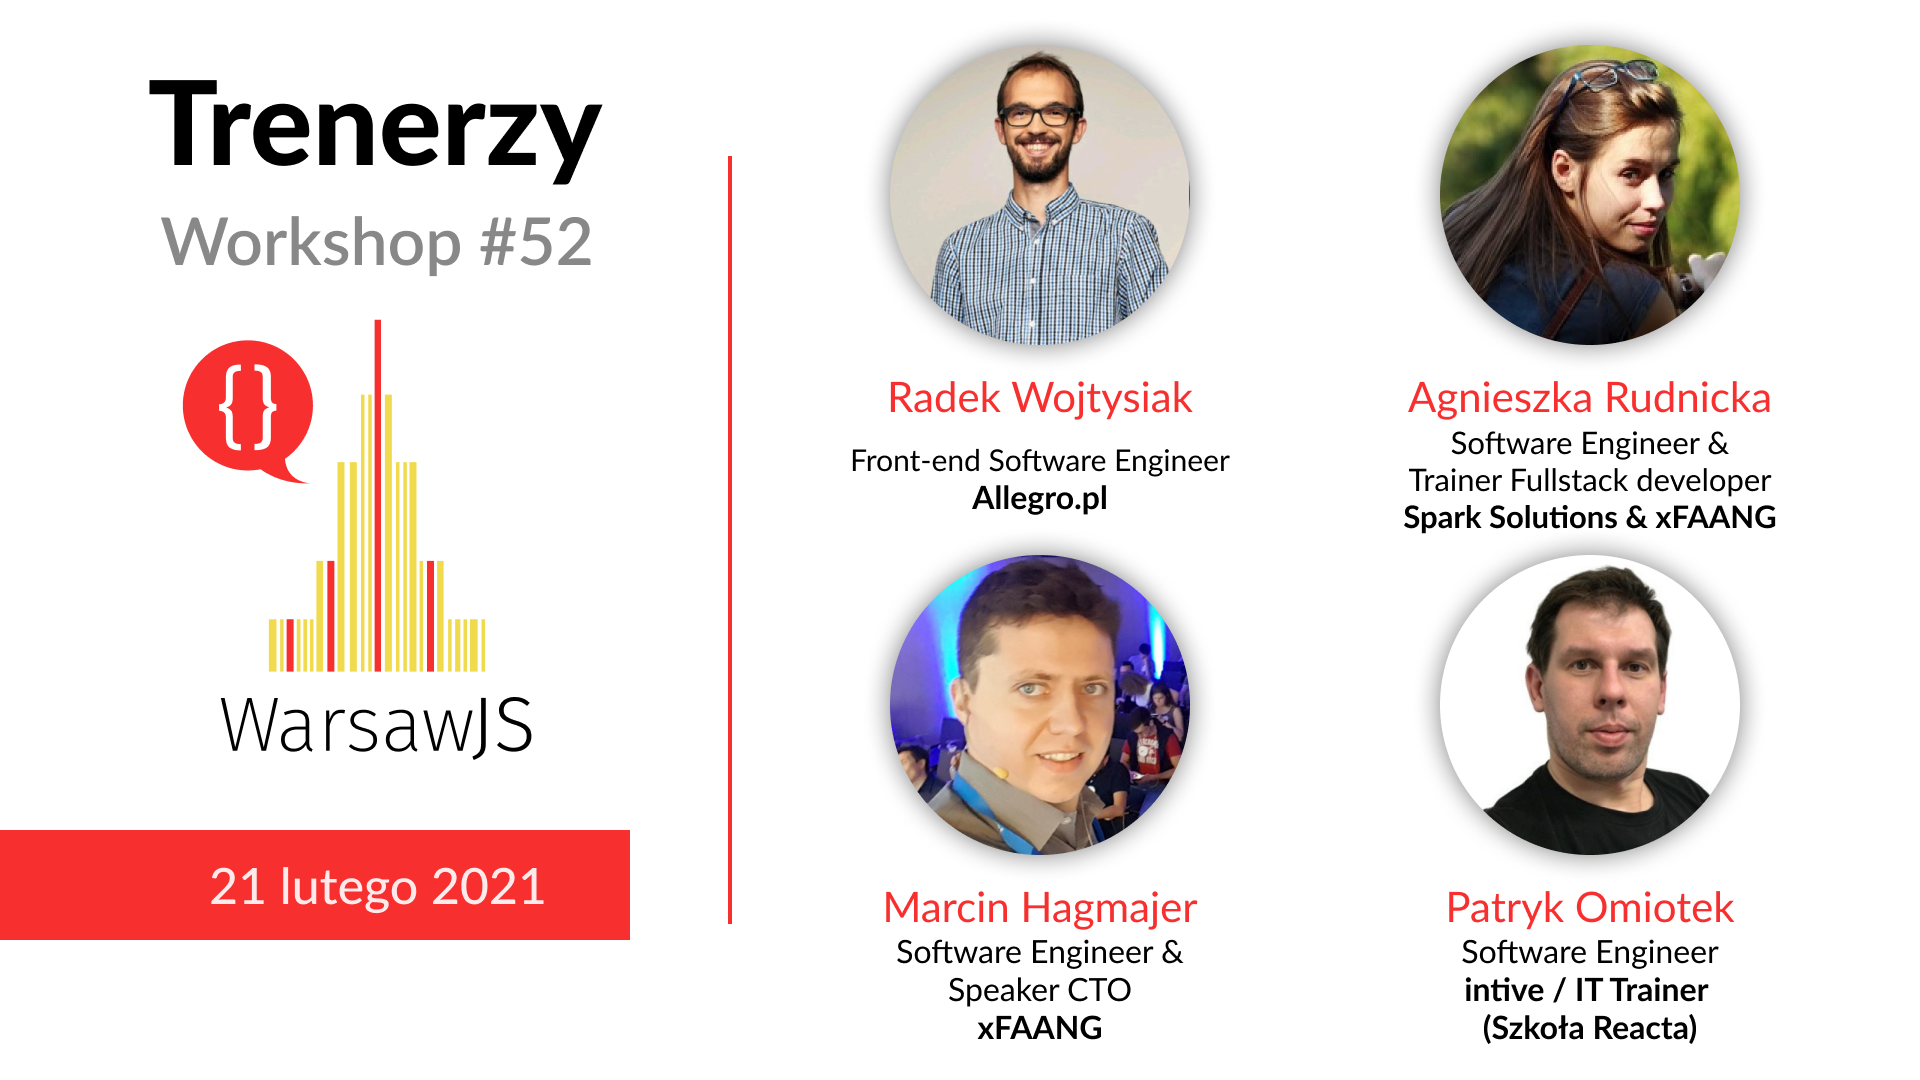
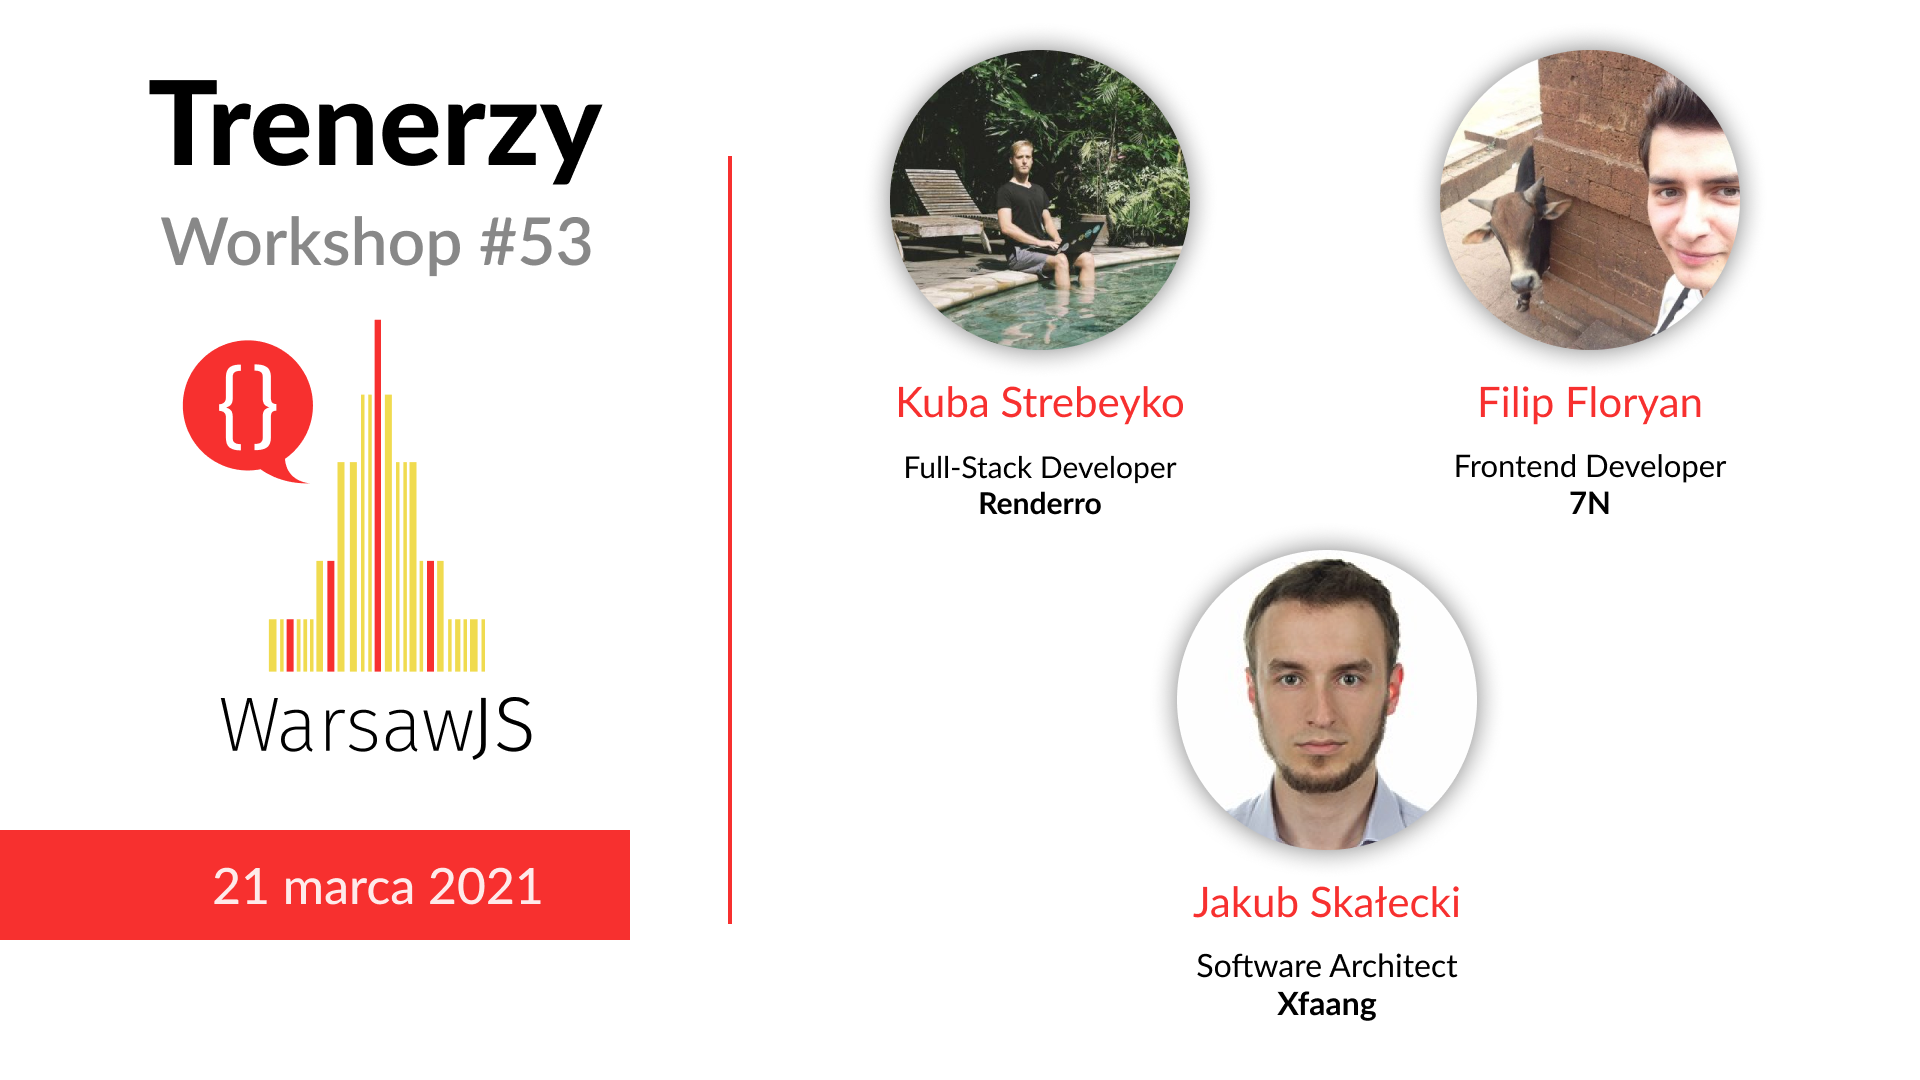
Update WarsawJS slides

diff --git a/index.html b/index.html
@@ -10,8 +10,6 @@
     <link href="images/icons/warsawjs-logo-transparent-32x32.png"
           rel="icon" type="image/png" sizes="32x32"/>
 
-    <!-- <link href="https://fonts.googleapis.com/css?family=Fira+Sans:400,900&amp;subset=latin-ext"
-          rel="stylesheet"/> -->
 
     <link href="https://fonts.googleapis.com/css?family=Roboto:300,700&display=swap" rel="stylesheet">
 
@@ -201,53 +199,6 @@
         </ul>
     </section>
 
-
-<!--     <section class="slide center slide-card-list" style="padding-top: 40px;">
-        <h2 style="font-size: 60px; margin-bottom: 20px;">
-            WarsawJS Meetup <em>Streaming</em>
-        </h2>
-
-        <ul class="list-unstyled items">
-            <li>
-                <img
-                    src="https://s3.eu-central-1.amazonaws.com/www.warsawjs.com/static/images/people/marcin-hagmajer.jpg"
-                    class="avatar"
-                    style="border-radius: 50%; width: 170px; margin-bottom: 25px;"
-                    alt=""/>
-
-                <p>
-                    Marcin Hagmajer
-                </p>
-                    <small>Steaming & Videos</small>
-                <p>
-                    <a href="https://github.com/mhagmajer">
-                        <i class="icon icon-github"></i>
-                        <span>mhagmajer</span>
-                    </a>
-                </p>
-            </li>
-            <li>
-                <img
-                    src="https://s3.eu-central-1.amazonaws.com/www.warsawjs.com/static/images/people/konrad-dziekonski.png"
-                    class="avatar"
-                    alt=""
-                    style="border-radius: 50%; width: 170px; margin-bottom: 25px;"
-                    />
-
-                <p>
-                    Konrad Dziekoński
-                </p>
-                    <small>Steaming Support</small>
-                <p>
-                    <a href="https://github.com/dziekonskik">
-                        <i class="icon icon-github"></i>
-                        <span>dziekonskik</span>
-                    </a>
-                </p>
-            </li>
-        </ul>
-    </section> -->
-
     <section class="slide">
         <h2 style="font-size: 60px;"><em>What is</em> WarsawJS?</h2>
         <p>
@@ -284,7 +235,7 @@
     </section>
 
     <section class="slide">
-        <h1 class="shout">5,668 🙌</h1>
+        <h1 class="shout">5,681 🙌</h1>
 
         <h3 class="shout" style="font-size: 50px; margin-top: 120px;">
             <a href="http://meetup.com/warsawjs">meetup.com/warsawjs</a>
@@ -299,25 +250,10 @@
              alt=""/>
     </section>
 
-    <!-- <section-- class="slide">
-        <h1 class="shout" style="font-size: 120px">
-            🌟 <a href="https://warsawjs.com">warsawjs.com</a>  🌟
-        </h1>
-
-        <h3 class="shout" style="font-size: 50px; margin-top: 150px;">
-            🎊 Brand new homepage 🎉
-        </h3>
-    </section-->
-
     <section class="slide">
-        <img class="cover" src="images/sponsors/sponsors.png"
-             alt="10Clouds, Ethworks, Fresha, Packhelp, Postclick, Prisma, Sumo Logic, Xfaang"/>
+        <img class="cover" src="images/sponsors/Sponsors.jpg"
+             alt="10Clouds, Fresha, Packhelp, Postclick, Prisma, Sumo Logic, Xfaang"/>
     </section>
-<!-- 
-    <section class="slide">
-        <img class="cover" src="images/misc/Wallaby.png"
-             alt="Wallaby"/>
-    </section> -->
 
     <section class="slide center slide-card-list" style="padding-top: 40px;">
         <h2 style="font-size: 60px; margin-bottom: 20px;">
@@ -337,89 +273,34 @@
                 </p>
 
                 <p>
-                    Go to Clubhouse!
+                    <a href="https://discord.gg/QcC2jRcM">Go to Discord!</a>
                 </p>
             </li>
         </ul>
     </section>
 
     <section class="slide">
-        <a href="https://www.notion.so/New-User-Guide-ae9236f3fe29416ea45274529d987855">
-            <img class="cover" src="images/misc/clubhouse.png"
-                 alt="10Clouds, Ethworks, Fresha, Packhelp, Postclick, Prisma, Sumo Logic, xFAANG"/>
+        <a href="https://discord.gg/QcC2jRcM">
+            <img class="cover" src="images/misc/discord.png"
+                 alt="Discord 10Clouds, Fresha, Packhelp, Postclick, Prisma, Sumo Logic, Xfaang"/>
         </a>   
     </section>
 
 
-    <!-- Promocja najbliższego WarsawJS Workshop -->
     <section class="slide">
         <img
             class="cover"
             src="images/misc/workshop.png"
-            alt="Workshop 51"
+            alt="Workshop 53"
         />
     </section>
 
-    <!--section class="slide">
-        <img
-            class="cover"
-            src="images/confrontjs/Facebook_1920x1080px.jpg"
-            alt=""
-        />
-    </section-->
-
-    <!-- <section class="slide" style="padding-top: 40px;">
-        <div style="display: flex; flex-wrap: wrap; margin: 100px 0 0 0;">
-            <div style="width: 40%">
-                <h2 style="font-size: 70px; margin: 0;">
-                    <strong>Blog</strong>
-                </h2>
-
-                <a href="https://blog.warsawjs.com">blog.warsawjs.com</a>
-            </div>
-
-            <div style="width: 60%">
-                <h2 style="font-size: 70px; margin: 0;">
-                    <strong>Newsletter</strong>
-                </h2>
-
-                <a href="https://newsletter.warsawjs.com">newsletter.warsawjs.com</a>
-            </div>
-
-            <div style="width: 40%">
-                <h2 style="font-size: 70px; margin: 20px 0 0 0;">
-                    <strong>Slack</strong>
-                </h2>
-
-                <a href="https://warsawjs.slack.com">warsawjs.slack.com</a>
-            </div>
-
-            <div style="width: 60%">
-                <h2 style="font-size: 70px; margin: 20px 0 0 0;">
-                    <strong>Warto wiedzieć</strong>
-                </h2>
-
-                <a href="https://github.com/piecioshka/warto-wiedziec">github.com/piecioshka/warto-wiedziec</a>
-            </div>
-        </div>
-    </section> -->
-
-    <!--section class="slide">
-        <h2 class="shout" style="margin-top: -100px;">
-            <strong>Inkubator</strong>
-        </h2>
-        <h2 class="shout" style="font-size: 50px; margin-top: 60px;">
-            <a href="https://github.com/warsawjs/incubator/">
-                <small>github.com</small>/<strong>warsawjs</strong>/<em>incubator</em>
-            </a>
-        </h2>
-    </section-->
 
     <section class="slide">
         <img
             class="cover"
             src="images/misc/Agenda.png"
-            alt="Meetup 77 speakers"
+            alt="Meetup 79 speakers"
         />
     </section>
 
@@ -427,9 +308,19 @@
         <h2 class="shout grow" style="font-size: 120px;">
             🔥 Let's begin! 🔥
         </h2>
-        <!-- <h3 class="shout grow" style="font-size: 50px; color: #f7302f; margin-top: 200px;">
-            ...and stay for networking on <a href="https://remo.co">remo.co</a>
-        </h3> -->
+    </section>
+
+    <section class="slide">
+        <img class="cover" src="images/sponsors/Sponsors.jpg"
+             alt="10Clouds, Fresha, Packhelp, Postclick, Prisma, Sumo Logic, Xfaang"/>
+    </section>
+
+    <section class="slide">
+        <img
+            class="cover"
+            src="images/misc/next_agenda.png"
+            alt="Meetup 80 speakers"
+        />
     </section>
 
     <!-- End of slides -->
